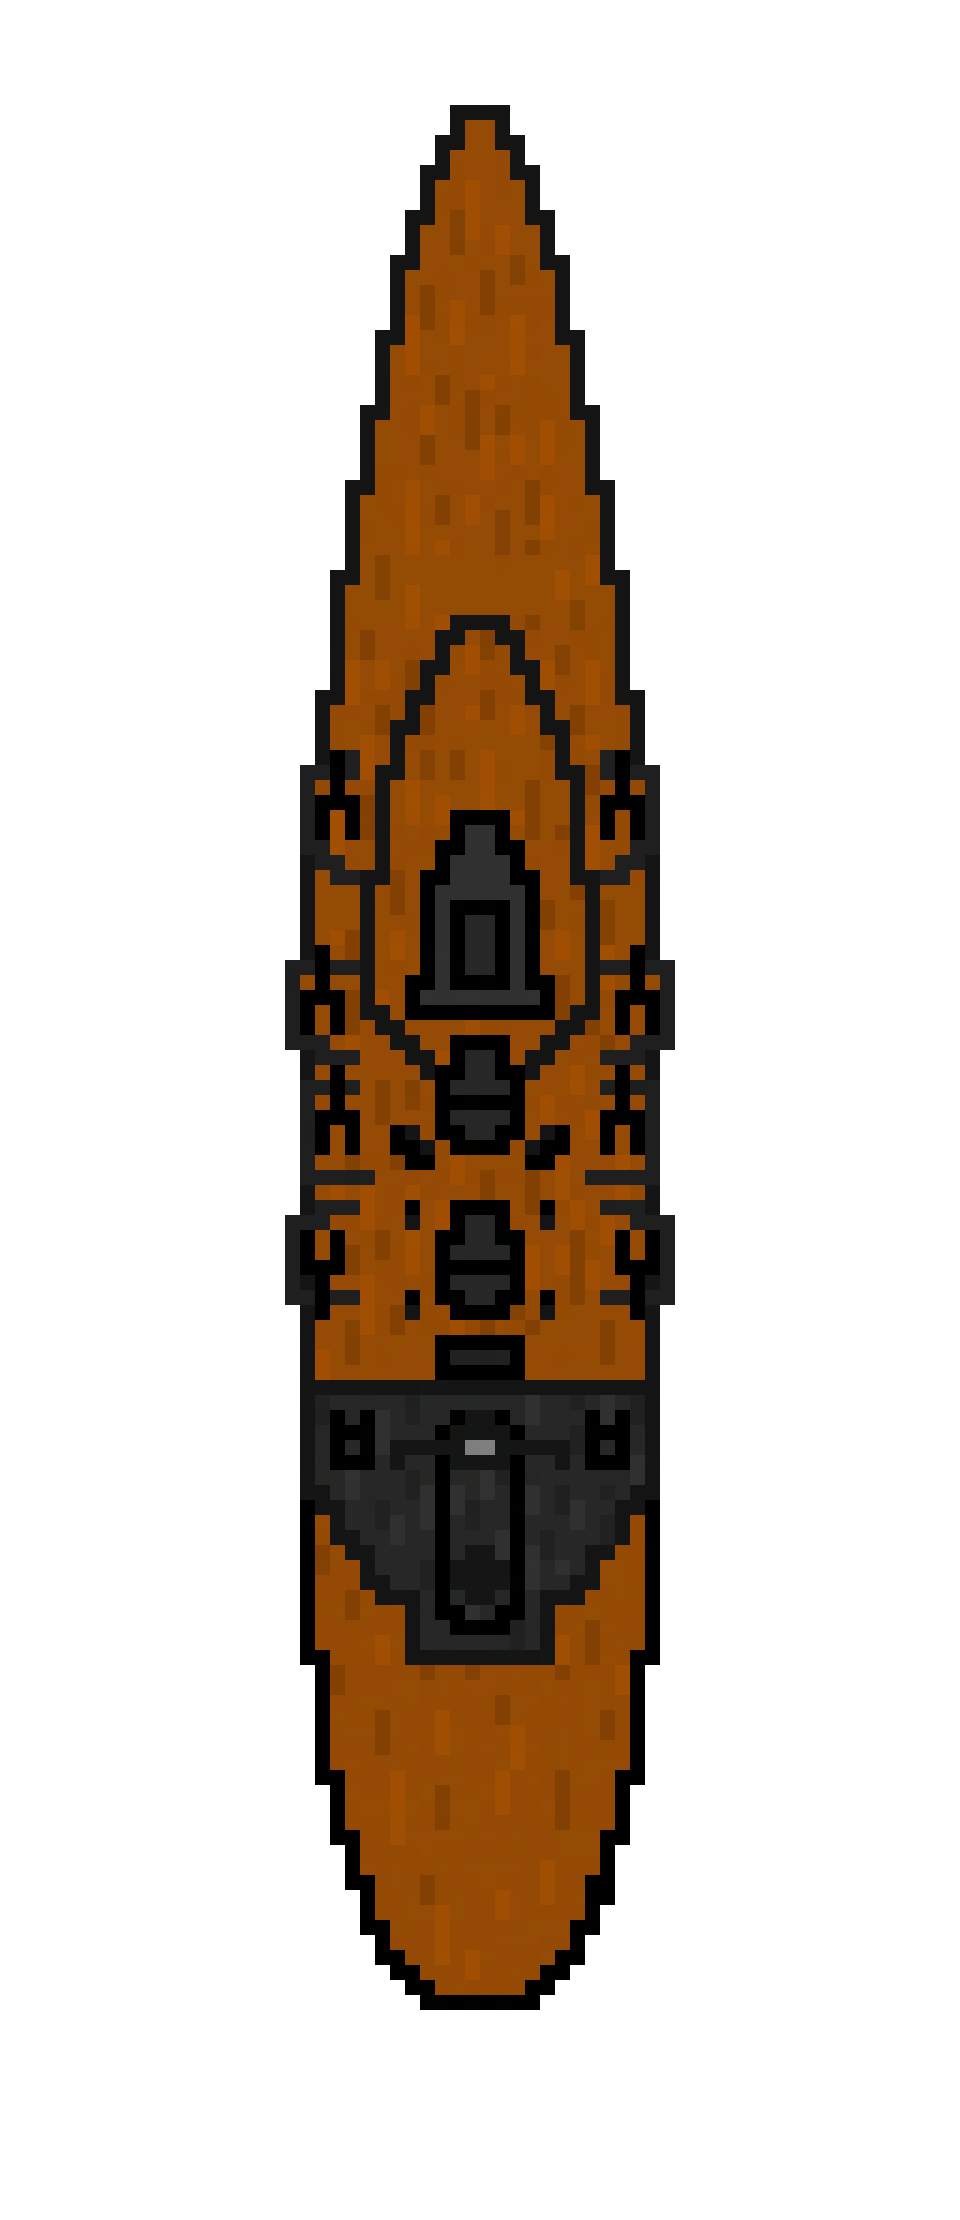
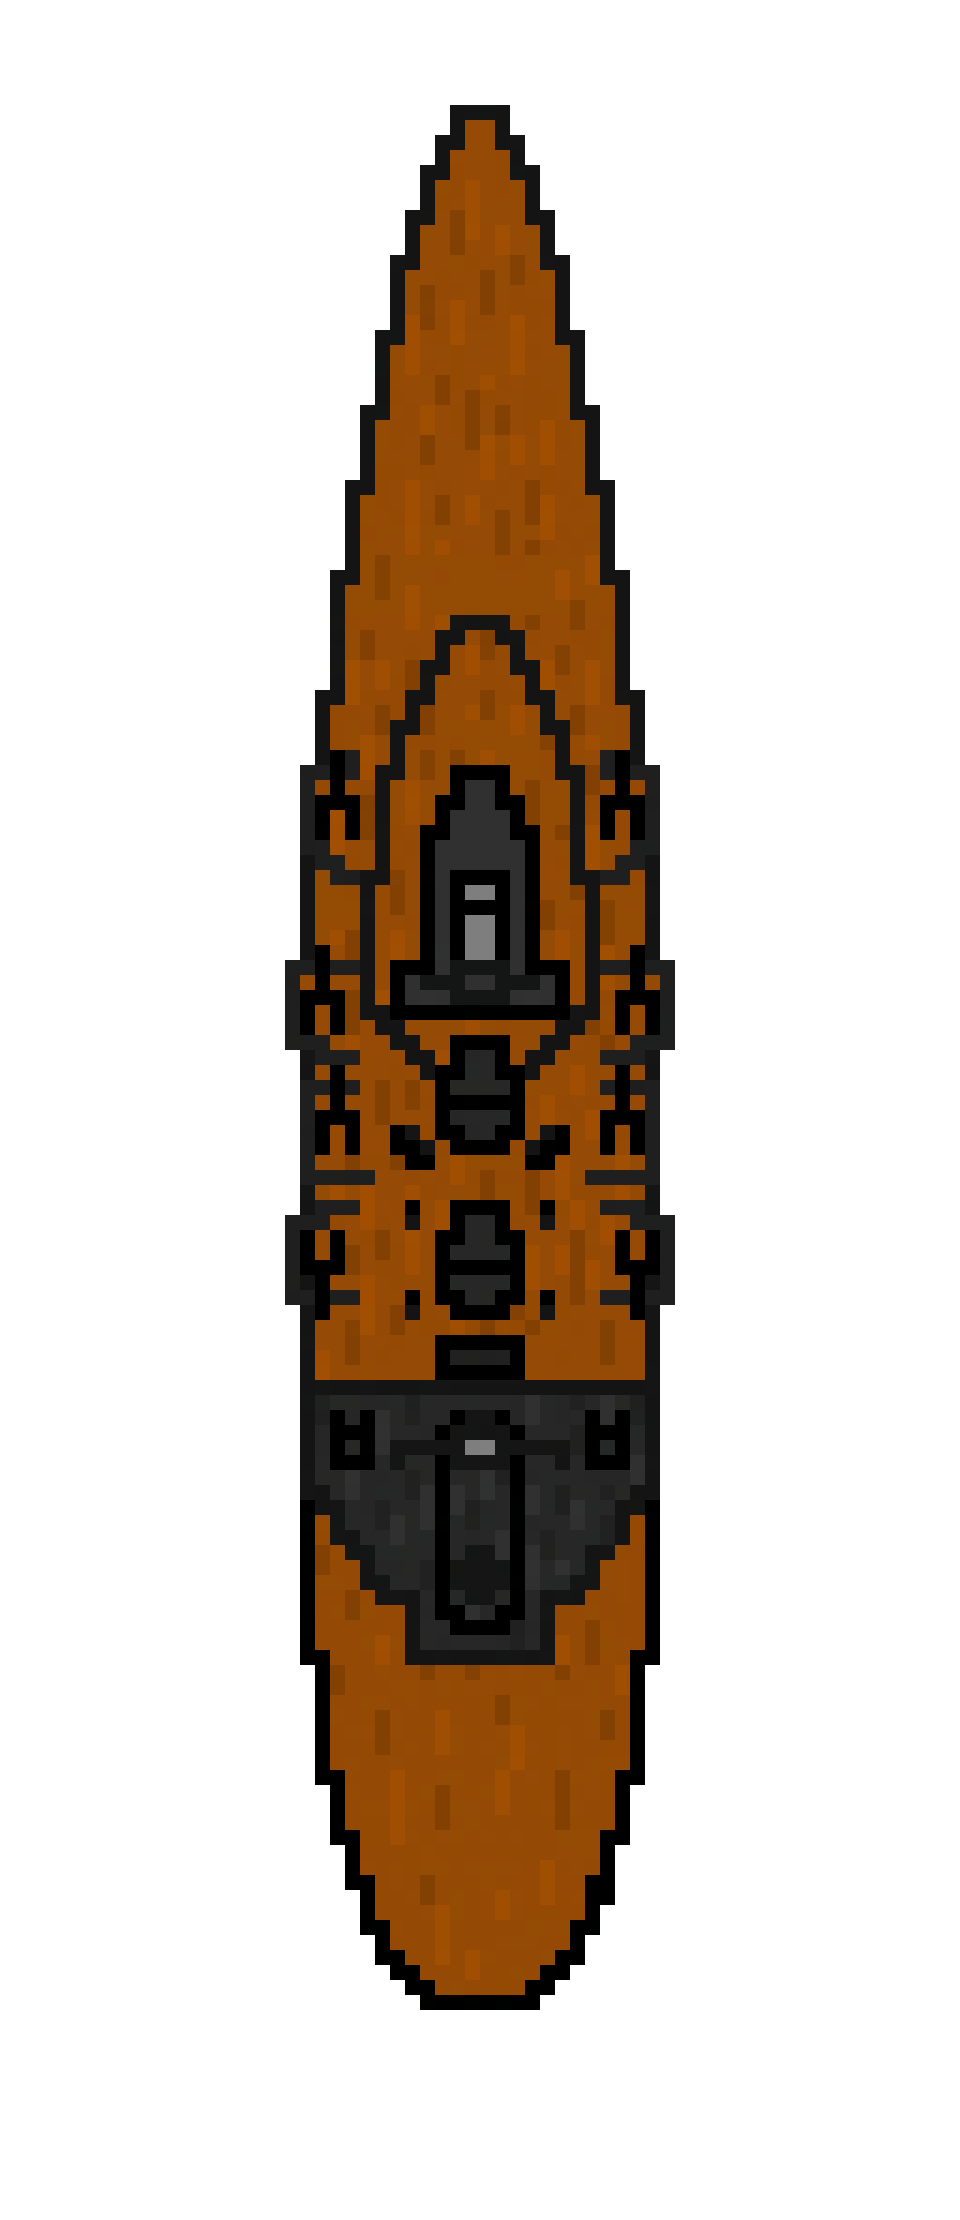
tweaked new orleans texture and characteristics

Changed region(s): [[0.4062, 0.3419, 0.5938, 0.4662]]

diff --git a/new-orleans-class.js b/new-orleans-class.js
@@ -40,14 +40,14 @@ registerShipType({
   collisionRadius: 28,
 
   turretMounts: [
-    { type: "B", dx: 0, dy: -34, baseRotation: Math.PI, arc: "front" }, // bow-most
-    { type: "A", dx: 0, dy: -25, baseRotation: Math.PI, arc: "front" }, // bow, superfiring
+    { type: "B", dx: 0, dy: -35, baseRotation: Math.PI, arc: "front" }, // bow-most
+    { type: "A", dx: 0, dy: -25.5, baseRotation: Math.PI, arc: "front" }, // bow, superfiring
     { type: "A", dx: 0, dy: 38, baseRotation: 0,         arc: "back"  }, // stern-most
   ],
   turretTraverse: Phaser.Math.DegToRad(0.21),
-  turretReloadSeconds: 6.5,
+  turretReloadSeconds: 7.5,
 
-  frontFiringArc: Phaser.Math.DegToRad(290),
+  frontFiringArc: Phaser.Math.DegToRad(265),
   backFiringArc: Phaser.Math.DegToRad(280),
 
   minFiringDistance: 100,
